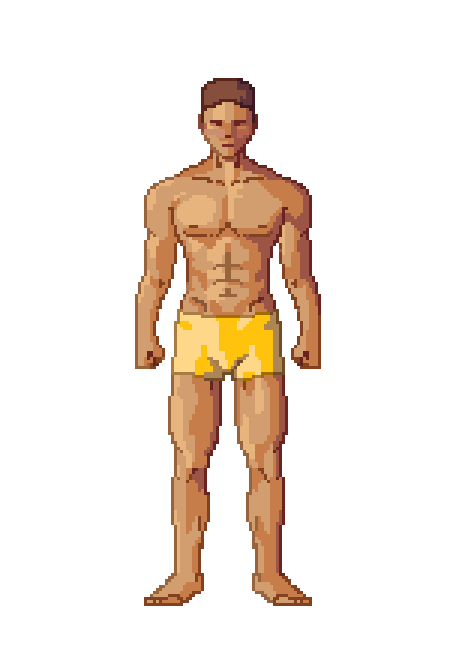
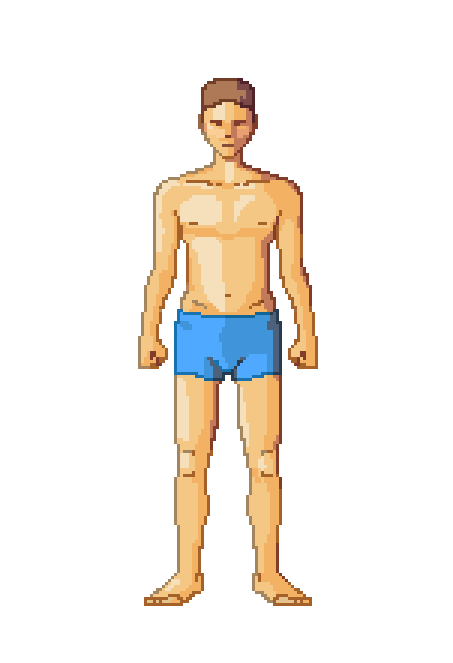
functional coin updates

Changed region(s): [[0.2781, 0.1207, 0.7108, 0.9351]]

diff --git a/hooks/useCharacter.tsx b/hooks/useCharacter.tsx
@@ -1,6 +1,7 @@
 import React, { createContext, useState, useContext, useEffect, ReactNode } from 'react';
 import { useAuth } from './useAuth';
 import { StorageService } from '@/services/storageService';
+import { GamificationService } from '@/services/gamificationService';
 
 type Gender = 'male' | 'female';
 
@@ -144,12 +145,31 @@ export const CharacterProvider: React.FC<{ children: ReactNode }> = ({ children 
           if (!merged.skinColor) merged.skinColor = 1;
           if (!merged.characterBackgroundUrl) merged.characterBackgroundUrl = 'Garage';
 
+          // Sync coins from API points
+          try {
+            const profile = await GamificationService.getProfile();
+            if (profile) {
+              (merged as any).coins = profile.points;
+            }
+          } catch (error) {
+            console.log('Failed to sync gamification profile:', error);
+          }
+
           setCharacter(merged);
         } else {
           // New user (or local storage not present for this user)
           // We can initialize with defaults, but maybe check if user object has preferences?
           // For now, use defaults.
-           setCharacter(DEFAULT_CHARACTER);
+          let initialChar = { ...DEFAULT_CHARACTER };
+          try {
+            const profile = await GamificationService.getProfile();
+            if (profile) {
+              initialChar.coins = profile.points;
+            }
+          } catch (error) {
+            console.log('Failed to fetch initial profile:', error);
+          }
+          setCharacter(initialChar);
         }
       } catch (error) {
         console.error('Failed to load character data:', error);

diff --git a/app/customize.tsx b/app/customize.tsx
@@ -94,6 +94,26 @@ export default function CustomizeScreen() {
         </View>
       </View>
 
+      {/* Skin Color Section */}
+      <Text style={[styles.sectionTitle, { color: theme.text }]}>Skin Tone</Text>
+      <ScrollView horizontal showsHorizontalScrollIndicator={false} contentContainerStyle={styles.horizontalScroll}>
+        {[
+          { id: 1, color: '#F5D0C5', name: 'Light' },
+          { id: 2, color: '#E0AC69', name: 'Medium' },
+          { id: 3, color: '#8D5524', name: 'Dark' }
+        ].map((tone) => (
+          <CustomizationCard
+            key={tone.id}
+            title={tone.name}
+            isActive={character.skinColor === tone.id}
+            isOwned={true}
+            onPress={() => updateCharacter({ skinColor: tone.id as 1 | 2 | 3 })}
+          >
+            <View style={{ width: 40, height: 40, borderRadius: 20, backgroundColor: tone.color, borderWidth: 2, borderColor: '#fff' }} />
+          </CustomizationCard>
+        ))}
+      </ScrollView>
+
       {/* Backgrounds Section */}
       <Text style={[styles.sectionTitle, { color: theme.text }]}>Backgrounds</Text>
       <ScrollView horizontal showsHorizontalScrollIndicator={false} contentContainerStyle={styles.horizontalScroll}>

diff --git a/app/(tabs)/shop.tsx b/app/(tabs)/shop.tsx
@@ -135,11 +135,6 @@ export default function ShopScreen() {
         <View style={styles.balRow}>
           <Gem size={18} color={theme.accent} />
           <Text style={[styles.balText, { color: theme.accent }]}>{character.coins}</Text>
-          <TouchableOpacity onPress={async () => { addCoins(500); await impact('success'); }} style={styles.addBtn}>
-            <LinearGradient colors={[theme.accent, theme.accentSecondary]} locations={[0.55, 1]} start={{ x: 0, y: 0 }} end={{ x: 1, y: 1 }} style={styles.addBtnInner}>
-              <Text style={[styles.addBtnText, { color: theme.cardText }]}>+500</Text>
-            </LinearGradient>
-          </TouchableOpacity>
         </View>
       </View>
       <Text style={[styles.welcomeText, { color: theme.text }]}>

diff --git a/app/(tabs)/index.tsx b/app/(tabs)/index.tsx
@@ -421,7 +421,7 @@ export default function HomeScreen() {
           <Text style={[styles.appTitle, { color: theme.text }]}>Muscledia</Text>
           <View style={styles.coinContainer}>
             <Coins size={20} color={theme.accent} />
-            <Text style={[styles.coinText, { color: theme.accent }]}>100</Text>
+            <Text style={[styles.coinText, { color: theme.accent }]}>{character.coins}</Text>
           </View>
         </View>
 
